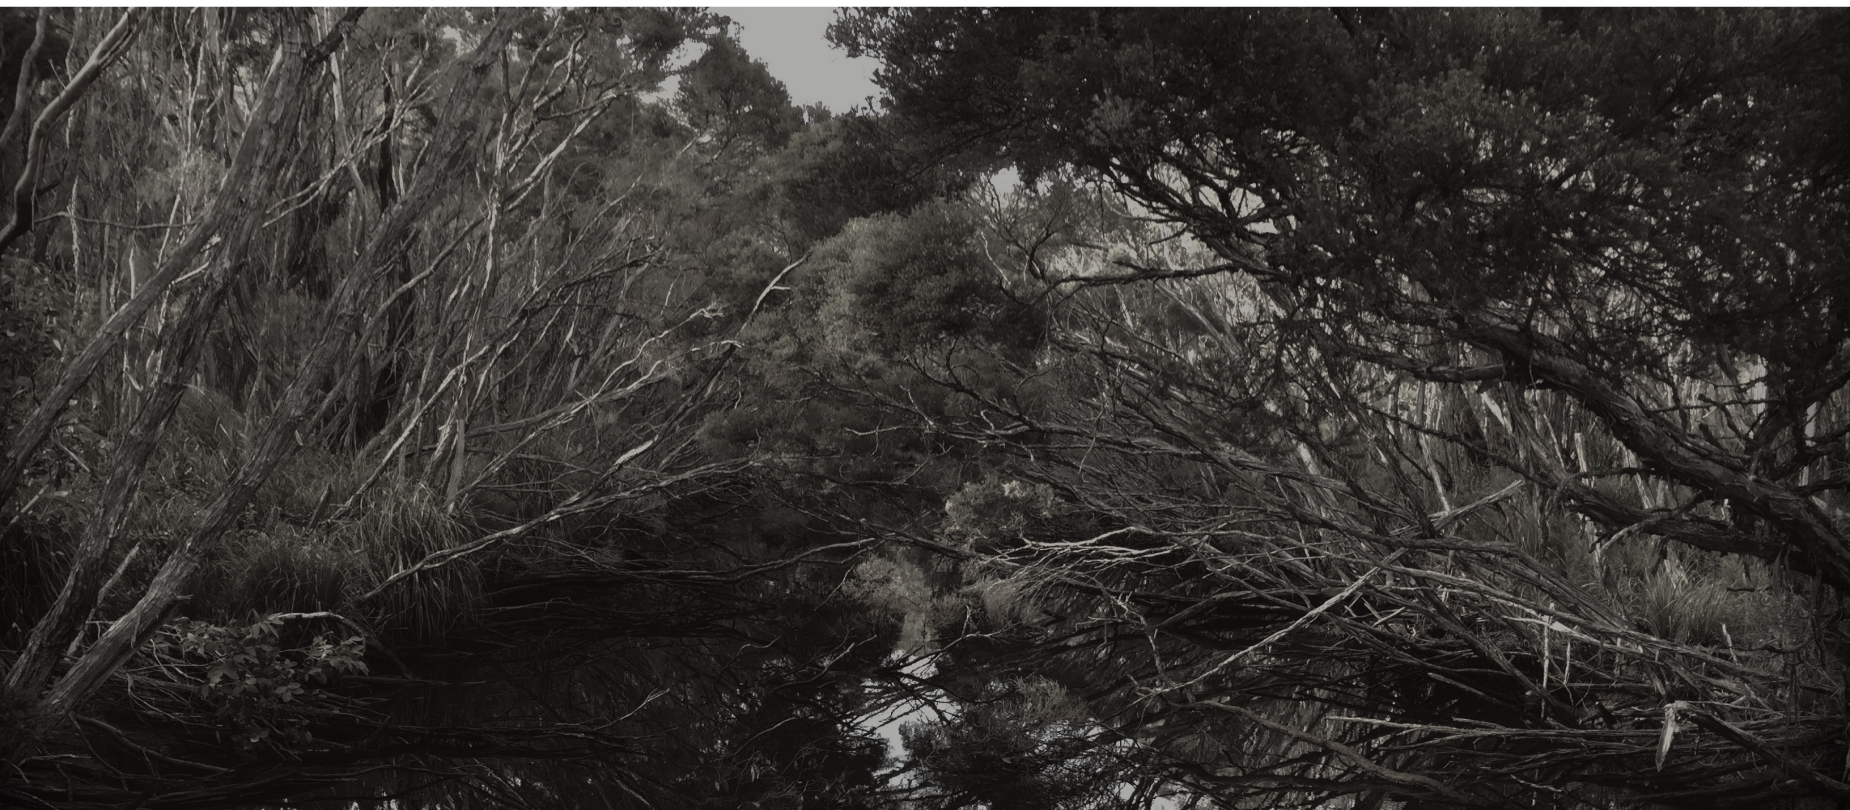
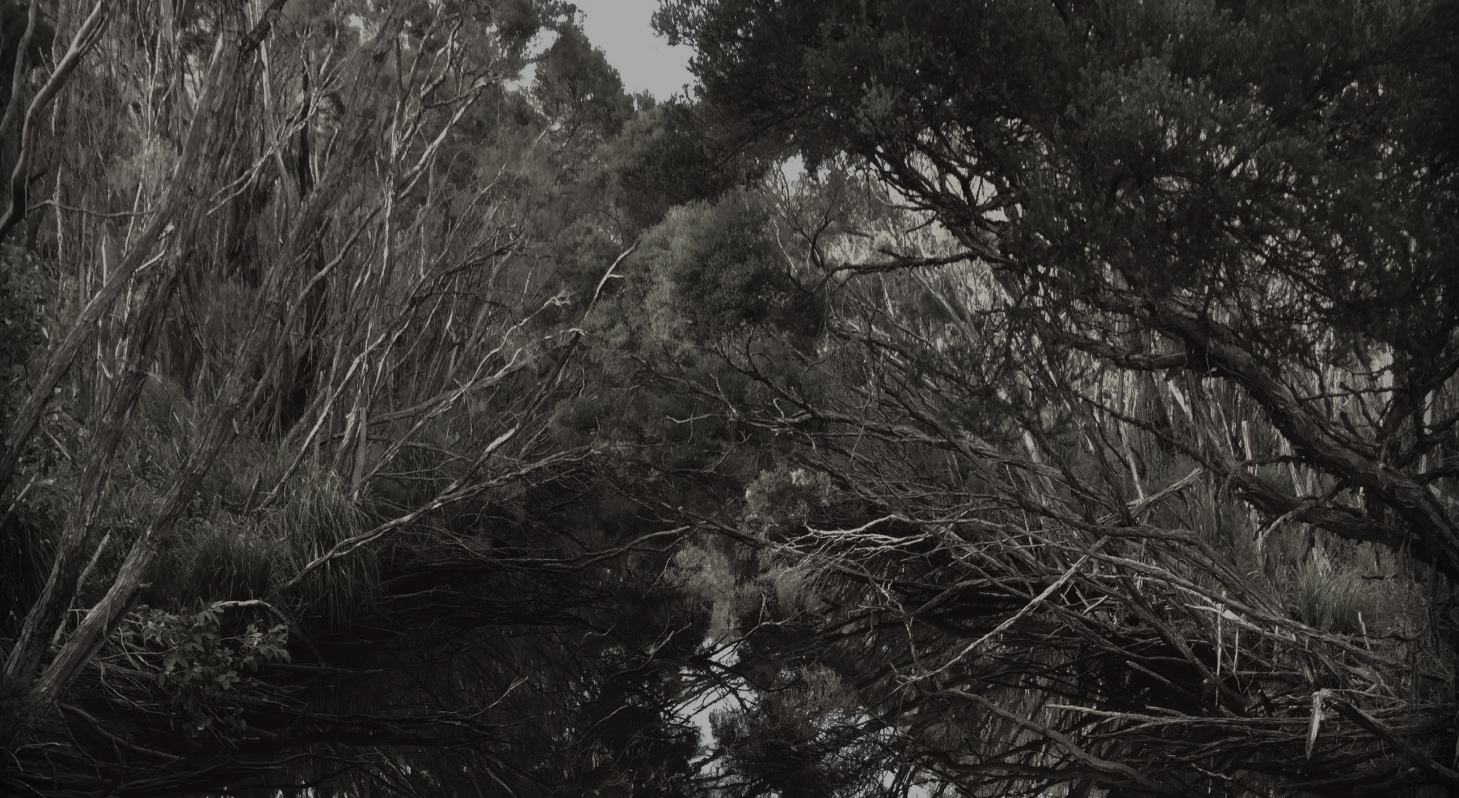
Added new lower res images.

Changed region(s): [[0.0, 0.0, 1.0, 0.9624], [0.3393, 0.8421, 0.3701, 0.8722]]

diff --git a/wedding/css/grayscale.min.css b/wedding/css/grayscale.min.css
@@ -2,4 +2,4 @@
  * Start Bootstrap - Grayscale v4.0.0-beta (https://startbootstrap.com/template-overviews/grayscale)
  * Copyright 2013-2017 Start Bootstrap
  * Licensed under MIT (https://github.com/BlackrockDigital/startbootstrap-grayscale/blob/master/LICENSE)
- */body{font-family:Lora,'Helvetica Neue',Helvetica,Arial,sans-serif;position:relative;width:100%;height:100%;color:#fff;background-color:#000}html{width:100%;height:100%}h1,h2,h3,h4,h5,h6{font-family:Cabin,'Helvetica Neue',Helvetica,Arial,sans-serif;font-weight:700;margin:0 0 35px;letter-spacing:1px;text-transform:uppercase}p{font-size:16px;line-height:1.5;margin:0 0 25px}@media (min-width:768px){p{font-size:18px;line-height:1.6;margin:0 0 35px}}a{-webkit-transition:all .2s ease-in-out;-moz-transition:all .2s ease-in-out;transition:all .2s ease-in-out;color:#bd6df8}a:focus,a:hover{text-decoration:none;color:#910cf3}#mainNav{font-family:Cabin,'Helvetica Neue',Helvetica,Arial,sans-serif;margin-bottom:0;text-transform:uppercase;border-bottom:1px solid rgba(255,255,255,.3);background-color:#000}#mainNav .navbar-toggler{font-size:14px;padding:11px;color:#fff;border:1px solid #fff}#mainNav .navbar-brand{font-weight:700}#mainNav a{color:#fff}#mainNav .navbar-nav .nav-item{-webkit-transition:background .3s ease-in-out;-moz-transition:background .3s ease-in-out;transition:background .3s ease-in-out}#mainNav .navbar-nav .nav-item:hover{color:fade(white,80%);outline:0;background-color:transparent}#mainNav .navbar-nav .nav-item:active,#mainNav .navbar-nav .nav-item:focus{outline:0;background-color:transparent}@media (min-width:992px){#mainNav{padding-top:20px;padding-bottom:20px;-webkit-transition:background .3s ease-in-out,padding-top .3s ease-in-out,padding-bottom .3s;-moz-transition:background .3s ease-in-out,padding-top .3s ease-in-out,padding-bottom .3s;transition:background .3s ease-in-out,padding-top .3s ease-in-out,padding-bottom .3s;letter-spacing:1px;border-bottom:none;background:0 0}#mainNav.navbar-shrink{padding-top:10px;padding-bottom:10px;border-bottom:1px solid rgba(255,255,255,.3);background:#000}#mainNav .nav-link.active{outline:0;background-color:rgba(255,255,255,.3)}#mainNav .nav-link.active:hover{color:#fff}}.masthead{display:table;width:100%;height:auto;padding:200px 0;text-align:center;color:#fff;background:url(../img/IMG_0436.png) no-repeat bottom center scroll;background-color:#000;-webkit-background-size:cover;-moz-background-size:cover;-o-background-size:cover;background-size:cover}.masthead .intro-body{display:table-cell;vertical-align:middle}.masthead .intro-body .brand-heading{font-size:50px}.masthead .intro-body .intro-text{font-size:18px}@media (min-width:768px){.masthead{height:100%;padding:0}.masthead .intro-body .brand-heading{font-size:100px}.masthead .intro-body .intro-text{font-size:22px}}.btn-circle{font-size:26px;width:55px;height:55px;margin-top:15px;line-height:38px;-webkit-transition:background .3s ease-in-out;-moz-transition:background .3s ease-in-out;transition:background .3s ease-in-out;color:#fff;border:2px solid #fff;border-radius:100%!important;background:0 0}.btn-circle:focus,.btn-circle:hover{color:#fff;outline:0;background:rgba(255,255,255,.1)}.content-section{padding-top:150px;padding-bottom:150px}.download-section{color:#fff;background:url(../img/IMG_0440.png) no-repeat center center scroll;background-color:#000;-webkit-background-size:cover;-moz-background-size:cover;-o-background-size:cover;background-size:cover}.rsvp-section{color:#fff;background:url(../img/IMG_0424.png) no-repeat center center scroll;height:600px;background-color:#000;-webkit-background-size:cover;-moz-background-size:cover;-o-background-size:cover;background-size:cover;display:flex;flex-direction:column;justify-content:center}.rsvp-section .rsvpForm{display:flex;flex-direction:column}.rsvp-section .rsvpForm .nameInput{margin-top:10px}.rsvp-section .rsvpForm .attendingDiv{margin-top:10px;flex-direction:row}.rsvp-section .rsvpForm .attendingDiv span{float:left;margin-right:20px}.rsvp-section .rsvpForm .attendingDiv input{float:left}.rsvp-section .rsvpForm .notesInput{margin-top:10px;height:80px}.rsvp-section .rsvpForm .submitButton{margin-top:10px}#map{width:100%;height:300px}@media (min-width:992px){.content-section{padding-top:200px;padding-bottom:200px}#map{height:350px}}.btn{font-family:Cabin,'Helvetica Neue',Helvetica,Arial,sans-serif;font-weight:400;-webkit-transition:all .3s ease-in-out;-moz-transition:all .3s ease-in-out;transition:all .3s ease-in-out;text-transform:uppercase;border-radius:0}.btn-default{color:#fff;border:1px solid #fff;background-color:transparent}.btn-default:focus,.btn-default:hover{color:#000;border:1px solid #bd6df8;outline:0;background-color:#bd6df8}ul.banner-social-buttons{margin-top:0}@media (max-width:1199px){ul.banner-social-buttons{margin-top:15px}}@media (max-width:767px){ul.banner-social-buttons li{display:block;margin-bottom:20px;padding:0}ul.banner-social-buttons li:last-child{margin-bottom:0}}footer{padding:50px 0}footer p{font-size:14px;margin:0}::-moz-selection{background:#fcfcfc;background:rgba(255,255,255,.2);text-shadow:none}::selection{background:#fcfcfc;background:rgba(255,255,255,.2);text-shadow:none}img::selection{background:0 0}img::-moz-selection{background:0 0}body{-webkit-tap-highlight-color:rgba(255,255,255,.2)}.fa.fa-circle.fa-stack-2x.text-primary{color:#bd6df8!important}.learnMore.btn{margin-bottom:40px}#map{margin-bottom:80px}.purple{color:#bd6df8}.textWrapper{background:rgba(33,32,32,.76);height:100px;border-radius:10px}.textWrapper.minimal{height:60px}.textWrapper.extra{height:120px}.greyBack{background:rgba(33,32,32,.76);border-radius:10px}.attendingLabel{margin-right:30px}.fixedLabel{width:130px}
+ */body{font-family:Lora,'Helvetica Neue',Helvetica,Arial,sans-serif;position:relative;width:100%;height:100%;color:#fff;background-color:#000}html{width:100%;height:100%}h1,h2,h3,h4,h5,h6{font-family:Cabin,'Helvetica Neue',Helvetica,Arial,sans-serif;font-weight:700;margin:0 0 35px;letter-spacing:1px;text-transform:uppercase}p{font-size:16px;line-height:1.5;margin:0 0 25px}@media (min-width:768px){p{font-size:18px;line-height:1.6;margin:0 0 35px}}a{-webkit-transition:all .2s ease-in-out;-moz-transition:all .2s ease-in-out;transition:all .2s ease-in-out;color:#bd6df8}a:focus,a:hover{text-decoration:none;color:#910cf3}#mainNav{font-family:Cabin,'Helvetica Neue',Helvetica,Arial,sans-serif;margin-bottom:0;text-transform:uppercase;border-bottom:1px solid rgba(255,255,255,.3);background-color:#000}#mainNav .navbar-toggler{font-size:14px;padding:11px;color:#fff;border:1px solid #fff}#mainNav .navbar-brand{font-weight:700}#mainNav a{color:#fff}#mainNav .navbar-nav .nav-item{-webkit-transition:background .3s ease-in-out;-moz-transition:background .3s ease-in-out;transition:background .3s ease-in-out}#mainNav .navbar-nav .nav-item:hover{color:fade(white,80%);outline:0;background-color:transparent}#mainNav .navbar-nav .nav-item:active,#mainNav .navbar-nav .nav-item:focus{outline:0;background-color:transparent}@media (min-width:992px){#mainNav{padding-top:20px;padding-bottom:20px;-webkit-transition:background .3s ease-in-out,padding-top .3s ease-in-out,padding-bottom .3s;-moz-transition:background .3s ease-in-out,padding-top .3s ease-in-out,padding-bottom .3s;transition:background .3s ease-in-out,padding-top .3s ease-in-out,padding-bottom .3s;letter-spacing:1px;border-bottom:none;background:0 0}#mainNav.navbar-shrink{padding-top:10px;padding-bottom:10px;border-bottom:1px solid rgba(255,255,255,.3);background:#000}#mainNav .nav-link.active{outline:0;background-color:rgba(255,255,255,.3)}#mainNav .nav-link.active:hover{color:#fff}}.masthead{display:table;width:100%;height:auto;padding:200px 0;text-align:center;color:#fff;background:url(../img/Header.png) no-repeat bottom center scroll;background-color:#000;-webkit-background-size:cover;-moz-background-size:cover;-o-background-size:cover;background-size:cover}.masthead .intro-body{display:table-cell;vertical-align:middle}.masthead .intro-body .brand-heading{font-size:50px}.masthead .intro-body .intro-text{font-size:18px}@media (min-width:768px){.masthead{height:100%;padding:0}.masthead .intro-body .brand-heading{font-size:100px}.masthead .intro-body .intro-text{font-size:22px}}.btn-circle{font-size:26px;width:55px;height:55px;margin-top:15px;line-height:38px;-webkit-transition:background .3s ease-in-out;-moz-transition:background .3s ease-in-out;transition:background .3s ease-in-out;color:#fff;border:2px solid #fff;border-radius:100%!important;background:0 0}.btn-circle:focus,.btn-circle:hover{color:#fff;outline:0;background:rgba(255,255,255,.1)}.content-section{padding-top:150px;padding-bottom:150px}.download-section{color:#fff;background:url(../img/Second.jpg) no-repeat center center scroll;background-color:#000;-webkit-background-size:cover;-moz-background-size:cover;-o-background-size:cover;background-size:cover}.rsvp-section{color:#fff;background:url(../img/Third.jpg) no-repeat center center scroll;height:600px;background-color:#000;-webkit-background-size:cover;-moz-background-size:cover;-o-background-size:cover;background-size:cover;display:flex;flex-direction:column;justify-content:center}.rsvp-section .rsvpForm{display:flex;flex-direction:column}.rsvp-section .rsvpForm .nameInput{margin-top:10px}.rsvp-section .rsvpForm .attendingDiv{margin-top:10px;flex-direction:row}.rsvp-section .rsvpForm .attendingDiv span{float:left;margin-right:20px}.rsvp-section .rsvpForm .attendingDiv input{float:left}.rsvp-section .rsvpForm .notesInput{margin-top:10px;height:80px}.rsvp-section .rsvpForm .submitButton{margin-top:10px}#map{width:100%;height:300px}@media (min-width:992px){.content-section{padding-top:200px;padding-bottom:200px}#map{height:350px}}.btn{font-family:Cabin,'Helvetica Neue',Helvetica,Arial,sans-serif;font-weight:400;-webkit-transition:all .3s ease-in-out;-moz-transition:all .3s ease-in-out;transition:all .3s ease-in-out;text-transform:uppercase;border-radius:0}.btn-default{color:#fff;border:1px solid #fff;background-color:transparent}.btn-default:focus,.btn-default:hover{color:#000;border:1px solid #bd6df8;outline:0;background-color:#bd6df8}ul.banner-social-buttons{margin-top:0}@media (max-width:1199px){ul.banner-social-buttons{margin-top:15px}}@media (max-width:767px){ul.banner-social-buttons li{display:block;margin-bottom:20px;padding:0}ul.banner-social-buttons li:last-child{margin-bottom:0}}footer{padding:50px 0}footer p{font-size:14px;margin:0}::-moz-selection{background:#fcfcfc;background:rgba(255,255,255,.2);text-shadow:none}::selection{background:#fcfcfc;background:rgba(255,255,255,.2);text-shadow:none}img::selection{background:0 0}img::-moz-selection{background:0 0}body{-webkit-tap-highlight-color:rgba(255,255,255,.2)}.fa.fa-circle.fa-stack-2x.text-primary{color:#bd6df8!important}.learnMore.btn{margin-bottom:40px}#map{margin-bottom:80px}.purple{color:#bd6df8}.textWrapper{background:rgba(33,32,32,.76);height:100px;border-radius:10px}.textWrapper.minimal{height:60px}.textWrapper.extra{height:120px}.greyBack{background:rgba(33,32,32,.76);border-radius:10px}.attendingLabel{margin-right:30px}.fixedLabel{width:130px}.notAttending{margin-left:8px}

diff --git a/wedding/css/grayscale.css b/wedding/css/grayscale.css
@@ -100,7 +100,7 @@ a {
   padding: 200px 0;
   text-align: center;
   color: white;
-  background: url("../img/IMG_0436.png") no-repeat bottom center scroll;
+  background: url("../img/Header.png") no-repeat bottom center scroll;
   background-color: black;
   -webkit-background-size: cover;
   -moz-background-size: cover;
@@ -146,7 +146,7 @@ a {
 
 .download-section {
   color: white;
-  background: url("../img/IMG_0440.png") no-repeat center center scroll;
+  background: url("../img/Second.jpg") no-repeat center center scroll;
   background-color: black;
   -webkit-background-size: cover;
   -moz-background-size: cover;
@@ -155,7 +155,7 @@ a {
 
 .rsvp-section {
   color: white;
-  background: url("../img/IMG_0424.png") no-repeat center center scroll;
+  background: url("../img/Third.jpg") no-repeat center center scroll;
   height: 600px;
   background-color: black;
   -webkit-background-size: cover;
@@ -284,3 +284,6 @@ body {
 
 .fixedLabel {
   width: 130px; }
+
+.notAttending {
+  margin-left: 8px; }

diff --git a/wedding/scss/grayscale.scss b/wedding/scss/grayscale.scss
@@ -175,7 +175,7 @@ a {
 
 .download-section {
   color: white;
-  background: url('../img/Second.png') no-repeat center center scroll;
+  background: url('../img/Second.jpg') no-repeat center center scroll;
   background-color: black;
   -webkit-background-size: cover;
   -moz-background-size: cover;
@@ -185,7 +185,7 @@ a {
 
 .rsvp-section {
   color: white;
-  background: url('../img/Third.png') no-repeat center center scroll;
+  background: url('../img/Third.jpg') no-repeat center center scroll;
   height: 600px;
   background-color: black;
   -webkit-background-size: cover;
@@ -350,4 +350,8 @@ body {
 
 .fixedLabel {
   width: 130px;
+}
+
+.notAttending {
+  margin-left: 8px;
 }

diff --git a/wedding/index.html b/wedding/index.html
@@ -257,8 +257,8 @@
               <div class="col-lg-6">
                 <div class="input-group">
                   <span class="input-group-addon">
-                    <span class="attendingLabel"> I will be attending </span>
-                    <input name="attending" type="checkbox" aria-label="...">
+                    <input name="attending" type="radio" aria-label="..."> Attending </input>
+                    <input class="notAttending" name="attending" type="radio" aria-label="..."> Not Attending </input>
                   </span>
                 </div>
                 <!-- /input-group -->
